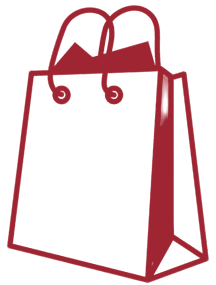
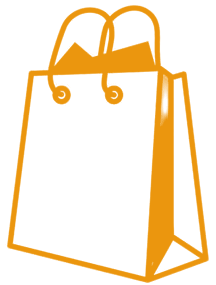
changed UI theme colours

Changed region(s): [[0.0278, 0.0, 0.9722, 1.0]]

diff --git a/css/style.css b/css/style.css
@@ -41,9 +41,9 @@ button {
   cursor: pointer;
   font-family: "Lato", sans-serif;
 
-  background-color: #f6c95f !important;
-  border: 1px solid#f6c95f !important;
-  color: #9e2531 !important;
+  background-color: #f6deae !important;
+  border: 1px solid#f6deae !important;
+  color: #eb960e !important;
   box-shadow: 0px 4px 4px rgba(0, 0, 0, 0.15) !important;
 }
 
@@ -64,7 +64,7 @@ button {
 }
 
 .type-label {
-  color: #865d06;
+  color: #666;
   margin: 0;
   width: 100%;
   text-align: left;
@@ -118,7 +118,7 @@ button {
   align-items: center;
   justify-content: flex-start;
   gap: 15px;
-  background-image: linear-gradient(to bottom, white, #f6c95f);
+  background-image: linear-gradient(to bottom, white, #f6deae);
   border-radius: 10px;
   width: 100%;
   height: 45%;
@@ -145,7 +145,7 @@ button {
 }
 
 .pricelabel {
-  color: #9e2531;
+  color: #eb960e;
   font-size: 18px;
 }
 
@@ -165,7 +165,7 @@ button {
   width: 45px;
   height: 45px;
   border-radius: 50%;
-  background-color: #f6cd6e !important;
+  background-color: #f6deae !important;
   z-index: 1;
   box-shadow: 0px 4px 4px rgba(0, 0, 0, 0.15) !important;
 }
@@ -218,7 +218,7 @@ button {
 
 .sitename {
   color: #333;
-  background-color: #f6c95f;
+  background-color: #f6deae;
   padding: 12px 25px;
   border-radius: 0 0 10px 10px;
   font-size: 28px;
@@ -276,7 +276,6 @@ button {
   height: 720px;
   margin: 0 auto;
   padding: 0;
-  /* border: 3px solid #f6c95f; */
   border-radius: 5px;
 }
 
@@ -335,12 +334,16 @@ button {
   position: absolute;
   top: 40%;
   left: 42.5%;
+  display: flex;
+  flex-direction: column;
+  align-items: center;
+  justify-content: center;
 }
 
 @media (max-width: 768px) {
   #loading-container {
-    top: 40%;
-    left: 30%;
+    top: 35%;
+    left: 25%;
   }
 }
 
@@ -409,6 +412,10 @@ button {
   }
 }
 
+#funorfact {
+  margin: 0;
+}
+
 #viewspacecontainer {
   position: absolute;
   top: 0;
@@ -429,10 +436,10 @@ button {
   z-index: 30;
   padding: 25px;
   gap: 20px;
-  background-color: #730b16;
-  color: #f6c95f;
+  background-color: #eee;
+  color: #eb960e;
   font-weight: 500;
-  border: 2px solid #f6c95f;
+  border: 2px solid #eee;
   border-radius: 5px;
   display: none;
 }
@@ -449,8 +456,8 @@ button {
   flex-direction: column;
   align-items: center;
   justify-content: center;
-  border: 2px solid #f6c95f;
   border-radius: 5px;
+  box-shadow: 0 0 8px 0px rgba(0, 0, 0, 0.15);
   padding: 20px;
   width: 100%;
   height: 100%;
@@ -461,8 +468,13 @@ button {
   width: auto;
 }
 
+.trytitle {
+  font-size: 20px;
+}
+
 .steptext {
   font-size: 18px;
+  font-weight: 500;
   padding: 15px;
   height: 10vh;
 }
@@ -508,7 +520,7 @@ button {
   top: 0;
   /* left: 0; */
   margin: 0 auto;
-  box-shadow: 0 2px 3px 0 rgba(0, 0, 0, 0.15), 0 4px 10px 0 #00000030;
+  box-shadow: 0 0 12px 0 rgba(0, 0, 0, 0.15);
   z-index: 10;
   display: none;
 }
@@ -619,7 +631,6 @@ button {
   }
 
   #usermanual {
-    gap: 15px;
     padding: 5px;
   }
 

diff --git a/js/utils.js b/js/utils.js
@@ -250,16 +250,15 @@ function getRandomItem(array) {
 
 function updateMessageAndFunFact() {
   const loadingMessages = [
-    "Polishing your gems: ",
-    "Stringing your pearls: ",
-    "Forging your treasures: ",
-    "Creating your sparkle: ",
-    "Designing your masterpiece: ",
-    "Unearthing precious stones: ",
-    "Weaving a golden thread: ",
-    "Crafting your royal jewels: ",
-    "Assembling a artwork of stars: ",
-    "Unlocking the jewelry box: ",
+    "Polishing precious jewels",
+    "Stringing precious pearls",
+    "Forging jewelry treasures",
+    "Creating jewelry sparkle",
+    "Designing the masterpiece",
+    "Unearthing golden stones",
+    "Weaving the golden thread",
+    "Crafting artwork of stars",
+    "Unlocking the jewelry box",
   ];
 
   const funFactsAndTips = [
@@ -282,7 +281,6 @@ function updateMessageAndFunFact() {
 }
 
 function updateLoadingProgress() {
-  let progress = document.getElementById("loadingprogress");
   let funOrFact = document.getElementById("funorfact");
 
   let loadPercentage =
@@ -306,11 +304,13 @@ function updateLoadingProgress() {
     updateMessageAndFunFact();
   }
 
-  progress.innerHTML = currentMessage + loadPercentage + "%";
   funOrFact.innerHTML = currentFunFact;
 
   const loadingContainer = document.getElementById("loading-container");
-  loadingContainer.innerHTML = `<div role="progressbar" aria-valuenow="${loadPercentage}" aria-valuemin="0" aria-valuemax="100" style="--value: ${loadPercentage}"></div>`;
+  loadingContainer.innerHTML = `
+  <div role="progressbar" aria-valuenow="${loadPercentage}" aria-valuemin="0" aria-valuemax="100" style="--value: ${loadPercentage}"></div>            
+  <p class="progresstext">${currentMessage}</p>
+  `;
 }
 
 /**

diff --git a/index.html b/index.html
@@ -58,7 +58,7 @@
           </div>
         </div>
         <h3 class="type-label">
-          Rings <span class="items-text">(3 Items)</span>
+          Rings <span class="items-text">(2 Items)</span>
         </h3>
         <div class="jrow">
           <div class="jewel-container" onclick="setJewellery('patternedring')">
@@ -73,7 +73,7 @@
               </div>
             </div>
           </div>
-          <div class="jewel-container" onclick="setJewellery('trinetraring')">
+          <!-- <div class="jewel-container" onclick="setJewellery('trinetraring')">
             <img src="assets/trinetraflip.jpeg" class="jewelimg" />
             <button class="primarybtn addcartbtn" type="button">
               <img src="assets/addbag.png" class="addbag" />
@@ -84,7 +84,7 @@
                 <h4 class="pricelabel">&#8377; 25,445</h4>
               </div>
             </div>
-          </div>
+          </div> -->
           <div class="jewel-container" onclick="setJewellery('floralring')">
             <img src="assets/floralflip.jpeg" class="jewelimg" />
             <button class="primarybtn addcartbtn" type="button">

diff --git a/tryon.html b/tryon.html
@@ -134,7 +134,6 @@
         <div id="Loading">
           <h4>
             <!-- [ Loading your experience ] -->
-            <p id="loadingprogress">Polishing your gems: 0%</p>
             <p id="funorfact">Tip: For best AR experience, make sure that no major light source is behind you.</p>
           </h4>
         </div>
@@ -150,7 +149,7 @@
         <div class="viewspace" id="viewspace"></div>
       </div>
       <div id="usermanual">
-        <h2>Try on with 3 simple steps !</h2>
+        <h3 class="trytitle">Try on with 3 simple steps !</h3>
         <div class="allsteps">
           <div class="step">
             <img src="" class="stepimg" id="step1img"/>

diff --git a/css/loader.css b/css/loader.css
@@ -8,7 +8,7 @@
 
 [role="progressbar"] {
   --percentage: var(--value);
-  --primary: #f6c95f;
+  --primary: #f6ad37;
   --secondary: #f6deae;
   --size: 200px;
   width: var(--size);
@@ -18,7 +18,7 @@
   overflow: hidden;
   display: grid;
   place-items: center;
-  box-shadow: 0 0 12px rgb(240, 206, 58) !important;
+  box-shadow: 0 0 12px rgb(239, 189, 108) !important;
   /* animation: progress 2s 0.5s forwards; */
 }
 
